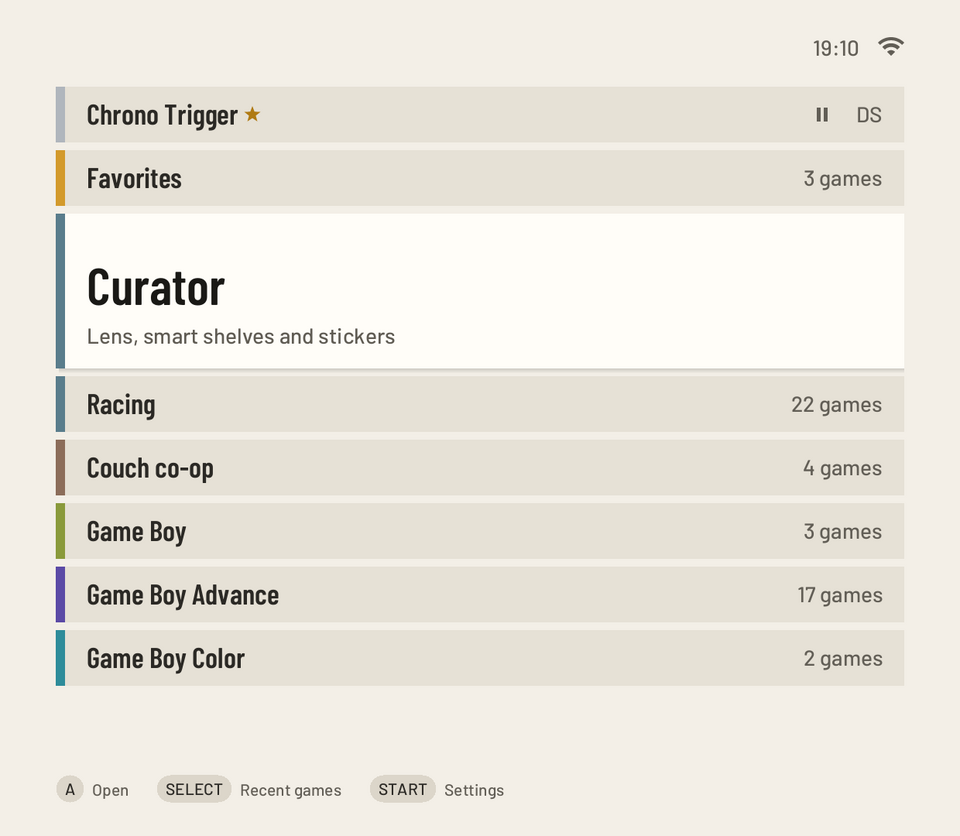
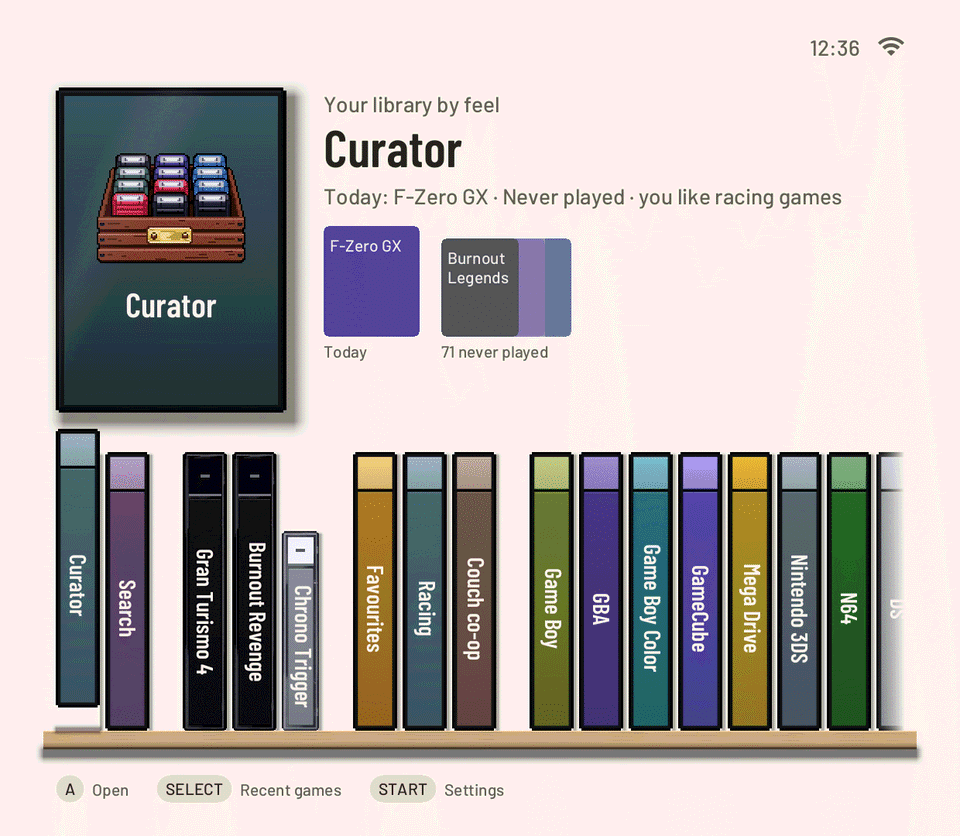
Docs for 0.1.6: device list by chip, README and manual brought up to date, new pictures

diff --git a/README.md b/README.md
@@ -13,15 +13,19 @@ PlayStation 2, gets the same small pause menu with save slots, pictures and a st
 box art, their own card and facts, and a Curator that knows what you own and what you have not touched yet.
 
 Version **0.1.6** is out as a public alpha: [download it](../../releases/tag/v0.1.6),
-watch the [trailer](https://pocketui.xyz), and read more at **[pocketui.xyz](https://pocketui.xyz)**.
+[watch the trailer](https://pocketui.xyz) and see more at **[pocketui.xyz](https://pocketui.xyz)**.
 
 <p align="center">
-  <img src="docs/media/home.png" width="49%" alt="Home: the last game, favourites, Curator and the systems">
-  <img src="docs/media/home-split.png" width="49%" alt="Home in the Split look">
+  <img src="docs/media/home.png" width="49%" alt="Home on the Shelf: the last game, favourites, Curator and the systems">
+  <img src="docs/media/home-cabinet.png" width="49%" alt="The Cabinet: games on a bookcase with an old TV, a plant and a trophy that grew with your play time">
 </p>
 <p align="center">
+  <img src="docs/media/cases.png" width="49%" alt="Games as discs, cartridge boxes and cases">
   <img src="docs/media/game-card.png" width="49%" alt="A game's card with facts, play time and notes">
-  <img src="docs/media/home-cabinet.png" width="49%" alt="The Cabinet look: Curator's shelves as a bookcase">
+</p>
+<p align="center">
+  <img src="docs/media/cozy-extras.png" width="49%" alt="Cozy extras: every little touch has its own switch">
+  <img src="docs/media/theme.png" width="49%" alt="Theme: colour sets, fonts and button symbols">
 </p>
 
 The pictures are rendered from the code with made-up data (`pocket-ui --snapshot`, see
@@ -30,13 +34,21 @@ The pictures are rendered from the code with made-up data (`pocket-ui --snapshot
 ## What it feels like
 
 - **Instant.** The shelf appears within tens of milliseconds, and a game starts from the picture of where you left it.
-- **One shelf, five looks.** Shelf, Minimal, Split, Cards and Cabinet, in dark or light, with real box art, system
-  pictures, favourites and ratings.
-- **One pause menu everywhere.** HOME opens Continue, Save and Load with 8 slots and previews, Earlier (step back a few
-  minutes), screen frames and effects (scanlines, CRT, LCD grid), shortcuts, rewind, run-ahead and cheats.
-- **Curator and Surprise me.** Browse by feel, find games like this one, or let it pick.
-- **Your own player.** pocket-core plays Game Boy to PSP, Dreamcast and DS; PlayStation 2, GameCube and Wii run on
-  their own emulators behind the same menu.
+- **Every game in its case.** Real cases, cartridge boxes and printed discs on the Shelf and the Cabinet: a PlayStation
+  jewel case, a Game Boy Advance cartridge, a GameCube mini disc with your game's cover on it. Stickers you put on
+  them (Completed, 100 %, Favourite, Game of the year), and on the Cabinet a little old TV that shows the selected game.
+- **Cozy or Quick.** Cozy opens the case, slides the cartridge in with a click and switches on an old TV; Quick just
+  starts. Playful animations, sounds of the cases, light that follows the time of day, a plant that grows with your
+  hours and a trophy for your first finished game. Each touch has its own switch (Settings → Look & feel → Cozy extras).
+- **Make it yours.** Five looks (Shelf, Minimal, Split, Cards, Cabinet), five colour sets in dark and light, three
+  fonts, and button symbols in Nintendo, Xbox or PlayStation style. An idle slideshow of your games' pictures if you want one.
+- **One pause menu everywhere.** HOME opens Continue, Save and Load with 8 slots and previews (on the memory card of the
+  game's own console, if you like), Earlier (step back a few minutes), screen frames and effects (scanlines, CRT, LCD
+  grid), shortcuts, rewind, run-ahead and cheats.
+- **Curator, Connections and Rediscover.** Browse by feel, find games like this one, follow a developer, series or
+  genre to your other games, or pick up what you played a year ago today.
+- **Your own player, and the big consoles.** pocket-core plays Game Boy to PSP, Dreamcast and DS; PlayStation 2,
+  GameCube, Wii and 3DS run on their own emulators behind the same menu. PortMaster games install from the Extras page and start from pocket-ui.
 - **Web companion** on your own tailnet: library, what is playing, favourites, ratings, uploads.
 - **Looks after itself.** Wi-Fi (even hotel sign-in pages), Bluetooth pads and headphones, sleep and power, signed
   updates with a way back. English and German.
@@ -60,17 +72,20 @@ is not touched. More: [docs/INSTALL-DUAL-BOOT.md](docs/INSTALL-DUAL-BOOT.md).
 You bring your own games and, for a few systems, BIOS files; pocket-ui includes neither. On an empty card it can
 download a [starter pack](docs/STARTER-PACK.md) of nine free homebrew games, each from its author's page.
 
-## Devices
+## Runs on
 
-| | |
-|---|---|
-| Made for | Retroid Pocket Mini V2 (Snapdragon 865 / SM8250), ROCKNIX SM8250 build 20261001 (newer builds are accepted when pocket-ui's compatibility check passes), 1240 x 1080 screen |
-| Tested on | Retroid Pocket Mini V2 (main device), AYN Odin 2 Mini, Anbernic RG35XX Plus |
-| Should run on | **Same ROCKNIX SM8250 image as the Mini V2:** Retroid Pocket 5, Flip 2, first Mini. **SM8550 image:** AYN Odin 2, Odin 2 Portal, Retroid Pocket 6, Nova. **ROCKNIX H700 image:** Anbernic RG28XX, RG35XX 2024/H/Pro/SP, RG40XX H/V, RG34XX, RG34XX-SP, RG-SP. Profiles are in place; not tried on the hardware yet |
+pocket-ui runs on three ROCKNIX images. 🎮 means the project has played on it, ✅ means the same chip, the same
+ROCKNIX image and a pocket-ui profile. Screens, sticks and sources are in [docs/DEVICES.md](docs/DEVICES.md).
 
-Alpha: it is made on the Mini V2; the "should run on" devices are best-effort. If something is off,
-**Settings → System → About → Report a problem** makes a file for a report, or [open an issue](../../issues).
-[docs/STATUS.md](docs/STATUS.md) lists every feature and how far it has been checked.
+| Chip and ROCKNIX image | Handhelds | Plays, by console release |
+|---|---|---|
+| **Snapdragon 865** (SM8250) | 🎮 **Retroid Pocket Mini V2**<br>✅ Retroid Pocket Mini, Pocket 5, Pocket Flip 2 | NES, Master System, PC Engine, Mega Drive, Game Boy, SNES, Saturn, PlayStation, Nintendo 64, Game Boy Color, Dreamcast, PlayStation 2, Game Boy Advance, GameCube, Xbox, Nintendo DS, PSP, Wii, 3DS |
+| **Snapdragon 8 Gen 2** (SM8550) | 🎮 **AYN Odin 2 Mini**<br>✅ AYN Odin 2, Odin 2 Portal, Retroid Pocket 6, Pocket Nova | NES, Master System, PC Engine, Mega Drive, Game Boy, SNES, Saturn, PlayStation, Nintendo 64, Game Boy Color, Dreamcast, PlayStation 2, Game Boy Advance, GameCube, Xbox, Nintendo DS, PSP, PS3, Wii, 3DS, PS Vita, Wii U (PS3, PS Vita and Wii U: selected games) |
+| **Allwinner H700** | 🎮 **Anbernic RG35XX Plus**<br>✅ RG35XX H, Pro, 2024 and SP, RG28XX, RG40XX H and V, RG34XX, RG34XX-SP, RG-SP | NES, Master System, PC Engine, Mega Drive, Game Boy, SNES, PlayStation, Nintendo 64, Game Boy Color, Dreamcast, Game Boy Advance, Nintendo DS, PSP (Nintendo 64, Dreamcast, PSP and DS with ROCKNIX's own emulators) |
+
+It is an alpha, made on the Mini V2. If something is off, **Settings → System → About → Report a problem** makes a
+file for a report, or [open an issue](../../issues). [docs/STATUS.md](docs/STATUS.md) lists every feature and how far
+it has been checked.
 
 ## How far it is proven
 
@@ -83,24 +98,11 @@ The details behind the alpha label, from [docs/STATUS.md](docs/STATUS.md):
 - Built and tested in the virtual device or in tests, still waiting for more real-device time: touch, Bluetooth pads,
   Wii and 3DS, the newest picture effects and frames, the night light, RetroAchievements, Syncthing between two
   devices, the Store and the starter pack. Battery drain of a long sleep is not measured yet.
-- The Retroid Pocket 5, Flip 2 and first Mini run the same ROCKNIX SM8250 build, so pocket-ui recognises them and lays
-  out for their screens; Pocket 6, Nova and the AYN Odin 2 family use the SM8550 image (screen off instead of
-  suspend, ROCKNIX-controlled cooling, see [docs/DEVICES.md](docs/DEVICES.md)). Nobody on the project has most of
-  these yet; the Odin 2 Mini has been tried once. The Anbernic H700 models are only tested on a computer, not on a handheld. Other devices are not supported.
-
-## Supported devices
-
-| | |
-|---|---|
-| Device | Retroid Pocket Mini V2 (Snapdragon 865 / SM8250) |
-| System | ROCKNIX, SM8250 build, version 20261001 (the version pocket-ui is tested with) |
-| Screen | 1240 x 1080 landscape (the panel is portrait and rotated by the compositor) |
-
-**Experimental, untested on real hardware:** the Retroid Pocket 5 and Retroid Pocket Flip 2 (1920 x 1080; the Flip 2's
-lid puts it to sleep) and the first Retroid Pocket Mini (1280 x 960), on the same ROCKNIX SM8250 build. pocket-ui says
-so once at the first start and in Settings › System › About. Install ROCKNIX for the device as ROCKNIX describes, then
-pocket-ui's install package; the SD card image is for the Mini V2 only. If something doesn't work, Settings › System ›
-About › Report a problem makes a file for a report. Details: [docs/DEVICES.md](docs/DEVICES.md).
+- The Retroid Pocket 5, Flip 2 and first Mini run the same ROCKNIX SM8250 build as the Mini V2, so pocket-ui
+  recognises them and lays out for their screens; Pocket 6, Nova and the AYN Odin 2 family use the SM8550 image
+  (screen off instead of suspend, ROCKNIX-controlled cooling, see [docs/DEVICES.md](docs/DEVICES.md)). The Odin 2 Mini
+  and the Anbernic RG35XX Plus have been played on; the other devices are covered by computer tests and the virtual
+  device. Devices that are not listed are not supported.
 
 ## What it does
 
@@ -238,23 +240,3 @@ libretro cores, the system pictures (public-domain photos by Evan Amos, converte
 - Barlow, by Jeremy Tribby, for the interface font, and Titillium Web for the test store's font package.
 - [Evan Amos](https://commons.wikimedia.org/wiki/User:Evan-Amos), whose public-domain console photographs on Wikimedia
   Commons are the base of the system pictures ([assets/systems/SOURCES.md](assets/systems/SOURCES.md)).
-
-
-### Experimental SM8550 handhelds
-
-The **Retroid Pocket 6** (including TOP-DPAD), **Retroid Pocket Nova**, **AYN Odin 2 Mini**,
-**AYN Odin 2** and **AYN Odin 2 Portal** are experimental. Only the Odin 2 Mini has been tried on a real device
-(2026-10-27: the install package, the first-start screens, the shelf, a GBA game with the pause menu, screen off and
-wake, driven over the command pipe; no button or touch pressed, no Bluetooth, no sleep); the other four are computer
-tests only, with no hardware verification. Use ROCKNIX's own **SM8550 aarch64 image**
-(20261001), set up following ROCKNIX's guide for your device, boot it once, then add pocket-ui
-with the install package. The Mini V2 SD image must not be used on these devices.
-
-Pocket 6 and the Odin 2 family use 1920×1080; Nova uses 1280×960. First start says once that the device is untested;
-About marks it experimental. **Stock ROCKNIX still disables sleep on these devices (checked 2026-10-27):** the power button
-turns the screen off, and idle turns it off with the game paused. Any button brings it back.
-Settings → System → Sleep & power offers **Switch off after** (Off by default) to save and power
-off after a longer dark spell on battery. Screen off still uses battery. ROCKNIX controls the fan;
-pocket-ui's fan choices have no effect here. Touch, LEDs, vibration, battery drain, 120 Hz pacing
-and Zink on the real GPU still need a tester. Mini and Portal menus start with Xbox buttons
-(A bottom); the original Odin 2 uses Nintendo buttons (A right). Saved layout choices win. See [device notes](docs/DEVICES.md).

diff --git a/docs/STATUS.md b/docs/STATUS.md
@@ -2,7 +2,7 @@
 
 One row per user-facing feature: how far it has been proven, on what, and what is still open. This is the one place
 that answers "does it work on the Mini V2?". Every "Status" note in the other documents (and the manual's notes for
-players) has to agree with it. State as of 2026-10-28, main `d908a14`; rows older than that keep the date of the run they describe.
+players) has to agree with it. State as of 2026-10-30, release 0.1.6; rows older than that keep the date of the run they describe.
 
 **The rule: whoever changes how well a feature has been verified updates its row in the same commit.** That means a
 new feature (add its row), a device run (move the row up and write what was done), a regression (move it down), and a
@@ -98,7 +98,7 @@ can be unticked while a later run (named here) covered the same ground.
 | Experimental devices (Retroid Pocket 5, Flip 2, Mini V1): recognised from the device tree, the first start's line, About's Device row, the report's device line, the install package accepts them | virtual device only | [DEVICES.md](DEVICES.md#a-first-day-in-the-virtual-device-2026-10-26), 2026-10-26: `device::tests` with each device's device tree strings, snapshots of `setup:first:device=rp5`/`mini` and `about:device=flip2` in English and German, `deploy/package/test-package.sh` with the five model strings; a first day in the virtual device as each (`vdev.sh up --device`). | Everything on such a device: nobody on the project has one. |
 | Experimental AYN Odin 2 Mini: install package, first-start screens, shelf, a GBA game with the pause menu, screen off and wake | device smoke-checked | 2026-10-27 (night): the install package from `a126f44` on a real Odin 2 Mini (checks, install, `VERIFY: ok`), driven over the command pipe, nobody pressed a button or touched the screen ([DEVICES.md](DEVICES.md#odin-2-mini-on-a-real-device-2026-10-27-night)). The status words describe the Mini V2; this is the only other device with a run. | Buttons, sticks, triggers, touch, volume keys, power button, Bluetooth, sleep, Mini LED backlight, fan, Zink, sound, battery drain, German, the big emulators. |
 | Experimental AYN Odin 2 and Odin 2 Portal; Odin 2 family profiles, layouts and cooling | host tests only | 2026-10-27: exact DT/profile/touch-corner tests; full gate exit 0 (2,574 Rust tests), aarch64 builds, 7,404 1080p renders, virtual Mini pad/touch, GBC save/resume and screen off/wake. Stock next still disables suspend (PR #3126 unmerged); safe SM8550 cooling. [Device notes and hardware plan](DEVICES.md#ayn-odin-2-family-2026-10-27-experimental). | All physical hardware of the Odin 2 and the Portal; for the Mini the rows above. |
-| Experimental Anbernic H700 handhelds (RG28XX, RG35XX 2024/Plus/H/Pro/SP, RG40XX H/V, RG34XX, RG34XX-SP, RG-SP; the CubeXX not yet) | host tests only | 2026-10-29: one profile plus a per-model table, installable (SSH package, Ports installer, card hook accept exactly the table's models; unknown H700 refused), N64/PSP/Dreamcast/DS stay on ROCKNIX's emulators, user guide. 2026-10-27: DT/profile tests, no fan/sticks/touch handling, RG28XX "no Wi-Fi" page, time zone without the Steam helper; 2026-10-28: scaled logical layouts at 640×480 / 720×480 / 720×720, full dark/light snapshot matrix, JPEG inspection, CPU benchmark and H700 vdev profile contract ([measurements](H700-SCALED-LAYOUT.md)). [Device notes](DEVICES.md#anbernic-h700-handhelds-2026-10-27-installable-2026-10-29-experimental). | Everything on hardware: DDR type, DTB, pad, lid and sleep on the SP, Wi-Fi on the RG28XX, rotation, speed, 1 GB memory. |
+| Anbernic H700 handhelds (RG35XX Plus played on; RG28XX, RG35XX 2024/Plus/H/Pro/SP, RG40XX H/V, RG34XX, RG34XX-SP, RG-SP; the CubeXX not yet) | host tests only | 2026-10-29: one profile plus a per-model table, installable (SSH package, Ports installer, card hook accept exactly the table's models; unknown H700 refused), N64/PSP/Dreamcast/DS stay on ROCKNIX's emulators, user guide. 2026-10-27: DT/profile tests, no fan/sticks/touch handling, RG28XX "no Wi-Fi" page, time zone without the Steam helper; 2026-10-28: scaled logical layouts at 640×480 / 720×480 / 720×720, full dark/light snapshot matrix, JPEG inspection, CPU benchmark and H700 vdev profile contract ([measurements](H700-SCALED-LAYOUT.md)). On a real RG35XX Plus (2026-10-30): the shelf's first X and the playful animations' frame cost measured ([LATENCY.md](LATENCY.md#first-box-in-the-shelf-and-cabinet-looks-2026-10-30)); the row's status describes the other models and is not raised by it. [Device notes](DEVICES.md#anbernic-h700-handhelds-2026-10-27-installable-2026-10-29-experimental). | The other models on hardware: DDR type, DTB, pad, lid and sleep on the SP, Wi-Fi on the RG28XX, rotation, speed, 1 GB memory. |
 | Layouts at 1920x1080 (the column) and 1280x960 | virtual device only | [DEVICES.md](DEVICES.md#layouts), 2026-10-26: every snapshot state at both sizes, dark and light, three text sizes, English and German (`scripts/size-sweep.sh`): no text runs into text or the hints at 1920x1080; at 1280x960 only the letter jump's letter (on purpose). The Mini V2's 1240x1080 pictures compared with the code before: unchanged. Home in every look, Settings, a game and the pause menu seen in the virtual device at both sizes. | Seen in the hand on a Pocket 5 or Mini V1. |
 | Flip 2 lid: closing sleeps (or screen off), opening wakes, logind's lid handling inhibited | virtual device only | [SLEEP.md](SLEEP.md#lid-the-flip-2), 2026-10-26: sleep tests with a fake event stream, the evdev `SW_LID` mapping, the inhibitor's `--what` per device; in the virtual Flip 2 a uinput `SW_LID` closed in a game saved it and suspended (stand-ins for the power key's inhibitor and the suspend, no logind there). | A Flip 2: the hall sensor's events, the inhibitor taking `handle-lid-switch`, wake by opening. |
 | Experimental devices: Smooth fan from 51, LEDs, battery estimate, touch rotation 270 | host tests only | [DEVICES.md](DEVICES.md#safety-on-untested-hardware), 2026-10-26: the cooling device tree compared in ROCKNIX's source (identical), `device::tests` (fan start), `touch::tests` (rotation 270 and 90), the estimate uses the capacity percentage only. | Fan noise and temperatures, LED order, battery drain, touch accuracy on each device. |
@@ -183,6 +183,9 @@ can be unticked while a later run (named here) covered the same ground.
 | Surprise me | host tests only | Same branch: seeded unit tests of the weights (finished, dropped, played today rarer; each work once; Right never repeats until all were shown) and the reasons; snapshots of its card and of "Getting ready…" ([CURATOR.md](CURATOR.md#surprise-me)). | On the device: whether the picks feel fair over a few days of real play, and the reason lines with a real taste profile. |
 | Curator on Home: the Curator row on top (above Search, Home still opens on Continue), the day's pick and the games waiting on its label and Split's panel, covers of Favorites and pinned shelves and stickers, Surprise me's first pick and the Cabinet's Surprise me box front | device smoke-checked | `feat/curator-forward`, 2026-10-26: unit tests of the day's pick and the waiting games (`curator::today`, and its cost in the 5,000-game speed test), of what each panel shows with and without data and where its covers go (`home_panel`), and of the new order of Home (`shelf`); snapshots of Home on the Curator, Favorites, pinned shelf and sticker rows in Shelf, Split and Cabinet, dark and light, Normal and Large, English and German, looked at on the build computer ([CURATOR.md](CURATOR.md#curator-on-home-featcurator-forward-2026-10-26)). On the Mini V2, 2026-10-26, main `87ffc1e`, driven over `/tmp/pocket-ui.in`, 332 games: Curator is the first entry of Home in Cards ("Heute: Castlevania - Harmony of Dissonance · Nie gespielt"); in Split (switched for the check and back) its panel shows the pick's cover and a fan of "4 zum Wiederentdecken", and Favorites the starred game's cover. Moving over Home: `nav` in the speed guard run of that day ([LATENCY.md](LATENCY.md#mini-v2)). | On the device: pinned shelves and stickers (none on the test card), the Shelf and Cabinet looks, real covers of mixed shapes, the pick changing the next day. Cards and Minimal have no covers on these entries by design (CURATOR.md). |
 | Connections (a card's developer, publisher, series and genre lead to the player's other games) and Curator's Rediscover | host tests only | `feat/connections`, 2026-10-30: unit tests of the loose matching, series from titles, the lists' order and Rediscover's dates (`connections`), of picking on the info page and the box's back (`game_card`); journeys with the real binary in every look at 1280x720 and 640x480, English Normal and German Large, nothing cut or overlapping (`tests/connections.rs`); snapshots looked at on the build computer ([CURATOR.md](CURATOR.md#connections-and-rediscover-featconnections-2026-10-30)). | On the device: a real library's series and developers (how often the title rule finds a series, wrong merges), the Cabinet's list shelf, Rediscover with a ROCKNIX gamelist's "last played". |
+| Cases, cartridge boxes and printed discs on the Shelf and Cabinet (0.1.4, 0.1.5), stickers on the cases, the Cabinet's TV | host tests only | Unit tests of the case kinds, disc kinds and sticker placement, snapshots in every look, dark and light, English and German ([DESIGN.md](DESIGN.md)). On a real RG35XX Plus the first box open was measured and brought from 166 to 85 ms ([LATENCY.md](LATENCY.md#first-box-in-the-shelf-and-cabinet-looks-2026-10-30)). | On the Mini V2: how the cases look and scroll with a real library; the TV's cost. |
+| Cozy extras (0.1.6): sounds of the cases, old-TV power-on, playful animations, memory card in the pause menu, idle slideshow, light by time of day, decorations | host tests only | Unit tests and journeys with the real binary (the slideshow's first press only closes it, also with analog triggers; decorations scan once a minute), snapshots of every switch's state. Frame costs of the playful animations measured on an RG35XX Plus ([LATENCY.md](LATENCY.md)). | On the Mini V2: the animations and the slideshow at arm's length; the memory card's slot row on every console. |
+| Theme (0.1.6): colour sets, fonts and button symbols | host tests only | Unit tests, snapshots in dark and light and at three text sizes, English and German. | On the Mini V2: contrast of every colour set in daylight. |
 | Play history and the Year in review | device smoke-checked | [HISTORY.md](HISTORY.md), `55b7a66`, 2026-10-24: sessions are recorded on the device. For hours on 2026-10-24 a stray measuring process kept sessions out of the log (found and removed at 19:33). | Sessions across sleep and midnight are unit-tested only. |
 | Starter pack | virtual device only | [STARTER-PACK.md](STARTER-PACK.md): nine games downloaded in the virtual device; offline and broken-HTTPS messages seen. | The download on the Mini V2. |
 | Store (page and four package kinds) | virtual device only | [STORE.md](STORE.md): works against a local test catalog. One fact was confirmed on the device: ROCKNIX empties its tools folder at every boot (so Store tools go to pocket-ui's own folder). | There is no public catalog. |

diff --git a/docs/DEVELOPING.md b/docs/DEVELOPING.md
@@ -579,9 +579,8 @@ After measurements (lower shared load, around 8; these are not controlled idle-m
 
 At the measured 601 states and 39 risk states, layout coverage uses 718 renders instead of 2,404. The 1,686 omitted
 renders repeat the three non-anchor combinations for states outside the risk list. No snapshot state is removed.
-Cargo's test phase took 73s versus nextest's 106s including doctests, so Cargo stays the default. The shell phases
-were 105s and 91s respectively, illustrating the host-load variation. Nextest is an optional diagnostic/runner choice,
-not an automatic speedup. The large library harness dominates compilation; merging small integration executables
+Cargo's test phase took 73s versus nextest's 106s including doctests on the lightly loaded build machine (2026-10-29). On the shared build server under load, with a retry and 12 threads, nextest was the faster one, see "The full gate runs the tests with `cargo nextest`" below; the gate now defaults to it. The shell phases
+were 105s and 91s respectively, illustrating the host-load variation. The large library harness dominates compilation; merging small integration executables
 was therefore not justified by these measurements.
 
 The runtime reductions preserve behaviours:
@@ -628,12 +627,20 @@ case also exercises the ordinary five-second SIGTERM fallback and verifies both 
 `/tmp/suite-ui-review/`; they have no layout collisions. Device follow-up: toggle the real radio off/on and compare
 the page, verify one real shutdown cancels the RTC wake alarm, and launch/quit with real video/audio and a card.
 
-The full gate can use `GATE_RUNNER=nextest scripts/gate.sh` when `cargo-nextest` is installed
-(`cargo install cargo-nextest --locked`). It still runs doctests through Cargo and all five shell suites.
-`.config/nextest.toml` limits execution to four test processes and retries only the named, known load-sensitive
-render benchmarks and Azahar header-read test once. Ordinary correctness tests have no retry. Cargo remains the
-default runner; use measured runtime, not availability, to choose nextest. Its JUnit report is under
-`target/nextest/default/junit.xml`.
+The full gate runs the tests with `cargo nextest` whenever it is installed and `.config/nextest.toml` exists (2026-10-30; on
+the build server it lives in its tool folder; `GATE_RUNNER=cargo` opts out, `GATE_RUNNER=nextest` insists). It runs every test in
+its own process and all test binaries side by side (`GATE_TEST_THREADS`, default the cores, at most 8; remote-gate.sh gives
+the build server 12), then the doctests through Cargo. Measured on the shared build server for the same one-comment change, three runs each, shared
+load 10-30: tests 163 / 164 / 169 s with `cargo test`, 115 / 114 / 112 s with nextest (the gate 188-192 s against 139-140 s).
+**One automatic retry** for every test (`retries = 1`): a test that fails once and passes on the retry is listed in the
+gate log as `gate:   flaky: <test>` and the gate stays green; a test that fails twice makes it red. The result lines are
+unchanged (`GATE: ok (N passed)`; N is now every test, about 2,900, not only the first Cargo binary's count). Tests that
+assert a time budget (thread CPU time per frame, the Curator's and the search's 5,000 games) are in an override that runs
+them alone (`threads-required = "num-test-threads"`), so a busy gate cannot fail them and their thresholds stay as they
+are; a new budget test belongs in that filter. Compile speed was measured too: a small change rebuilds in about 20 s, so
+the test run, not the compile, is the gate's time; `mold` as the linker and `opt-level = 1` for the gate profile gained
+nothing measurable (and `opt-level = 1` made the frame benchmarks fail), so `[profile.gate]` is unchanged. The JUnit
+report is under `target/nextest/default/junit.xml`.
 
 To measure without nightly Rust, build with `nice -n 10 env CARGO_BUILD_JOBS=4 cargo test --profile gate --no-run
 --message-format=json > /tmp/test-build.json`, timing that command separately, then run
@@ -642,6 +649,12 @@ The report separates binary durations from individual test durations and prints 
 include process startup and are diagnostic measurements, not performance assertions. Keep the machine load with the
 report. Do not compare a clean build with an incremental build as evidence of a profile improvement.
 
+
+**The merge train and artifacts (maintainers).** Branches are merged through a queue (`tools/merge-queue.sh <worktree>:<branch>`
+in the maintainer's checkout, not part of this repository): it runs one combined gate for up to four branches, halves a red
+batch down to the branch that broke it, and fast-forwards `main` only on green. The gate uses `cargo nextest` (see
+below). After each merge the queue builds one ARM release package per `main` commit; `scripts/dev.sh deploy --artifact
+<sha|latest-main>` puts such a package on a device without compiling.
 
 `scripts/gate.sh [worktree]` is what has to be green before a branch is merged: the whole `cargo test` at release level
 (all unit tests, integration tests that run the binaries, and the doc-drift checks) and `deploy/test-run-pocket-ui.sh`
@@ -819,6 +832,7 @@ These are meant for development and tests; normal use needs none of them. On a d
 | `POCKETUI_SNAPSHOT_NATIVE=1` | Snapshots only: bypass the logical canvas for raw small-panel layout comparisons |
 | `POCKETUI_FRAME_BENCH=1` | Snapshots (`home`, `settings`, `main`): report settled paint and paint-plus-reduction thread CPU medians and p95, excluding startup, PNG and presentation ([H700-SCALED-LAYOUT.md](H700-SCALED-LAYOUT.md)) |
 | `POCKETUI_SNAPSHOT_WIFI=1\|0` | `--snapshot`: the status corner as if Wi-Fi were connected (`1`) or not (`0`) (the `--snapshot` table above) |
+| `POCKETUI_SNAPSHOT_GAME=<system>\|<name>\|<file>` | `--snapshot`: the game behind the pause menu and the slot pages (default `gbc\|uCity\|uCity.gbc`); `scripts/readme-shots.sh` sets it |
 | `POCKETUI_SNAPSHOT_FLIP_MS=<ms>` | `--snapshot box:…`: the box's last turn that long after it began, instead of done (`game_box::BoxView::snapshot_settle`) |
 | `POCKETUI_SNAPSHOT_OPEN_MS=<ms>` | `--snapshot box:…`: the game that long into sliding out of its case, instead of out (`game_box::BoxView::snapshot_settle`) |
 | `POCKETUI_SNAPSHOT_SPIN_MS=<ms>` | `--snapshot box:…`: the disc beside its case that long into its slow turn (Playful animations, `game_box::BoxView::snapshot_settle`) |
@@ -985,7 +999,7 @@ Cabinet's CRT TV with its own picture thread, `assets/media/tv`), the look step'
 | `src/trace.rs`, `startup.rs`, `scripts/latency.{sh,py}` | The speed guard: latency trace and benchmark ([LATENCY.md](LATENCY.md)); where the start time goes |
 | `src/crash.rs`, `frame.rs`, `fsutil.rs`, `save_writer.rs`, `save_trouble.rs`, `logs.rs`, `net_log.rs` (`net.log`: the network daemons' journal and the saved networks' names, secrets blanked), `shutdown_log.rs`, `report.rs` | Panic log, error values instead of panics, atomic file writes, crash-safe saves (the battery save and the cartridge clock, `.rtc`, written off the game thread, each write's outcome kept), saves that don't reach the card (the kinds, their words, the note pocket-core leaves for pocket-ui), the logs on the card (`shutdown_log.rs`: pocket-ui's own `shutdown.log` for every power off and restart, fsynced per entry), Settings → System → About → Report a problem (the zip of versions, logs, settings and emulators for a bug report, every file cleaned of private details first: `Redactor`, its tests on `testdata/report/private-log.txt`; `app_report.rs` is the App's side) |
 | `src/rescue.rs`, `system_cfg.rs` | The rescue path: the launcher's exit codes, safe mode's rescue page, the dialog before EmulationStation ([ARCHITECTURE.md](ARCHITECTURE.md#rescue-path)); ROCKNIX's `system.cfg`, every write under its lock ([ARCHITECTURE.md](ARCHITECTURE.md#rocknixs-systemcfg)) |
-| `src/doc_checks.rs`, `src/testutil.rs`, `src/fixtures/`, `src/testdata/` | Tests only: the documentation checks; helpers shared by the unit tests (`write_executable`, the scratch folder `TestDir`); recorded tool output (bluetoothctl, Dolphin profiles, Syncthing, Tailscale) and data (the Curator golden set, ROM file names in the shapes found on real cards) the unit tests read |
+| `src/doc_checks.rs`, `src/testutil.rs`, `src/fixtures/`, `src/testdata/` | Tests only: the documentation checks; helpers shared by the unit tests (`write_executable`, the scratch folder `TestDir`); recorded tool output (bluetoothctl, Dolphin profiles, Syncthing, Tailscale) and data (the Curator golden set, real ROM names) the unit tests read |
 | `deploy/` | Files that go onto the device: the launcher `run-pocket-ui.sh`, the `essway` drop-in, the boot screen's unit (`pocket-splash.service`), SD boot config (`sd-efi/grub.cfg`) and the quiet start for a card set up before (`grub-quiet.sh`, its test `test-grub-quiet.sh`), the SD image's initramfs hooks and notes (`image/`), the install package's scripts and README (`package/`), RetroArch defaults, benchmark and PINE tools |
 | `scripts/` | Dev loop (`dev.sh`, `vdev.sh`, `devlock.sh`), tests (`test-linux.sh`), release (`release-app.sh`, `release-rustflags.sh`, `check-binary-paths.sh`), the SD card image (`make-image.sh`, `check-image.sh`, `image/`), the install package for an existing ROCKNIX card (`make-install-zip.sh`) and the two files for an official one (`make-fat-install.sh`), the Xbox core's files (`hakux-files.sh`, both packages), boot files (`make-sd-efi.sh`, `make-test-bootimg.py`), the quiet start on an existing card (`boot-quiet.sh`), `autostart.sh`, `flash-sd.sh`, `android/` helper scripts for the Android side of the install, translations (`i18n-extract.py`, `i18n-shots.sh`), other screen sizes (`size-sweep.sh`), `wayland-stub.py` (snapshots on Linux without a compositor) |
 | `docker/` | The virtual device: image build, boot scripts, virtual pad and touch screen |

diff --git a/docs/DEVICES.md b/docs/DEVICES.md
@@ -1,14 +1,63 @@
-# Devices: Mini V2 and experimental handhelds
+# Devices: which handhelds pocket-ui runs on
 
-> **Status (2026-10-26; ledger: [STATUS.md](STATUS.md)):** pocket-ui is made and tested on the **Retroid Pocket
-> Mini V2**. The **Retroid Pocket 5**, **Retroid Pocket Flip 2** (the Snapdragon 865 one) and the first **Retroid
-> Pocket Mini** ("Mini V1") run the same ROCKNIX SM8250 image and are offered as **experimental**: built and tested
-> on a computer only (unit tests, snapshots at their screen sizes, a first day in the virtual device for each). Nobody
-> on the project has one; nothing here has run on their hardware. Reports are welcome: Settings › System › About ›
-> Report a problem.
+## Which handhelds pocket-ui runs on
 
-Research behind this: `RESEARCH-NOVA-RP6-2026-10-26.md` (outside the repository) and
-[NOVA-FEASIBILITY.md](NOVA-FEASIBILITY.md). The SM8550 devices (Pocket 6, Nova and the AYN Odin 2 family) are experimental too; their different platform restrictions are below.
+pocket-ui runs on ROCKNIX, on the three ROCKNIX images it ships for: **SM8250**, **SM8550** and **H700**. Each device
+below has a ROCKNIX device tree on that image (its path is given under the table) and a pocket-ui profile that knows its
+screen, sticks, fan, Wi-Fi and lid. The installers accept exactly these devices. 🎮 means the project has played on it;
+✅ means the same chip, the same ROCKNIX image and a pocket-ui profile. Reports are welcome (Settings › System ›
+About › Report a problem). How far each feature is proven: [STATUS.md](STATUS.md).
+
+The "Plays" line of each chip comes from what pocket-ui starts there (`hostsys`, `standalone.rs`, `hakux.rs`) and from the
+runs in [STATUS.md](STATUS.md) and [BIG-EMULATORS.md](BIG-EMULATORS.md), in order of the consoles' years.
+
+### Snapdragon 865: ROCKNIX SM8250 image
+
+**Plays, by console release:** NES, Master System, PC Engine, Mega Drive, Game Boy, SNES, Saturn, PlayStation, Nintendo 64, Game Boy Color, Dreamcast, PlayStation 2, Game Boy Advance, GameCube, Xbox, Nintendo DS, PSP, Wii, 3DS. Has a fan.
+
+| | Device | Screen | Sticks | Notes |
+|---|---|---|---|---|
+| 🎮 | **Retroid Pocket Mini V2** | 1240 × 1080 | 2 | The main device; everything is measured here |
+| ✅ | Retroid Pocket Mini | 1280 × 960 | 2 | Layouts adjusted for the 4:3 panel |
+| ✅ | Retroid Pocket 5 | 1920 × 1080 | 2 | Pages sit in a centred column on the wide screen |
+| ✅ | Retroid Pocket Flip 2 | 1920 × 1080 | 2 | Closing the lid is the power button's short press |
+
+ROCKNIX: `projects/ROCKNIX/devices/SM8250/linux/dts/qcom/sm8250-retroidpocket-{rpminiv2,rpmini,rp5,rp5-visionox,flip2,flip2-visionox}.dts`.
+
+### Snapdragon 8 Gen 2: ROCKNIX SM8550 image
+
+**Plays, by console release:** NES, Master System, PC Engine, Mega Drive, Game Boy, SNES, Saturn, PlayStation, Nintendo 64, Game Boy Color, Dreamcast, PlayStation 2, Game Boy Advance, GameCube, Xbox, Nintendo DS, PSP, PS3, Wii, 3DS, PS Vita, Wii U. PS3, PS Vita and Wii U are selected games and guests of the pause menu (Continue and Quit; no save slots, the games save themselves). ROCKNIX runs the fan on these devices, and pocket-ui follows it.
+
+| | Device | Screen | Sticks | Notes |
+|---|---|---|---|---|
+| 🎮 | **AYN Odin 2 Mini** | 1920 × 1080 | 2 | Xbox measured here |
+| ✅ | AYN Odin 2 | 1920 × 1080 | 2 | Menus start with Nintendo buttons (A right) |
+| ✅ | AYN Odin 2 Portal | 1920 × 1080 | 2 | Menus start with Xbox buttons (A bottom) |
+| ✅ | Retroid Pocket 6 (also the TOP-DPAD version) | 1920 × 1080 | 2 | |
+| ✅ | Retroid Pocket Nova | 1280 × 960 | 2 | 4:3 panel |
+
+ROCKNIX: `projects/ROCKNIX/devices/SM8550/linux/dts/qcom/qcs8550-{ayn-odin2mini,ayn-odin2,ayn-odin2portal,retroidpocket-rp6,retroidpocket-rp6-top-dpad,retroidpocket-rpnova}.dts`.
+
+### Allwinner H700: ROCKNIX H700 image
+
+**Plays, by console release:** NES, Master System, PC Engine, Mega Drive, Game Boy, SNES, PlayStation, Nintendo 64, Game Boy Color, Dreamcast, Game Boy Advance, Nintendo DS, PSP. Nintendo 64, Dreamcast, PSP and Nintendo DS start with ROCKNIX's own emulators here. The RG35XX Plus plays Game Boy to PlayStation games smoothly. Four small cores, 1 GB of memory, no fan, Nintendo button labels.
+
+| | Device | Screen | Sticks | Wi-Fi |
+|---|---|---|---|---|
+| 🎮 | **Anbernic RG35XX Plus** | 640 × 480 | no | yes |
+| ✅ | Anbernic RG35XX H | 640 × 480 | 2 | yes |
+| ✅ | Anbernic RG35XX Pro | 640 × 480 | 2 | yes |
+| ✅ | Anbernic RG35XX 2024 | 640 × 480 | no | no |
+| ✅ | Anbernic RG35XX SP (clamshell) | 640 × 480 | no | yes |
+| ✅ | Anbernic RG28XX | 640 × 480 (portrait panel, turned) | no | no |
+| ✅ | Anbernic RG40XX H and V | 640 × 480 | 2 | yes |
+| ✅ | Anbernic RG34XX | 720 × 480 | no | yes |
+| ✅ | Anbernic RG34XX-SP (clamshell) | 720 × 480 | 2 | yes |
+| ✅ | Anbernic RG-SP (clamshell) | 720 × 480 | no | yes |
+
+ROCKNIX: `projects/ROCKNIX/devices/H700/linux/dts/allwinner/sun50i-h700-anbernic-*.dts`. The RG CubeXX is on the same image;
+its square 720 × 720 screen is too heavy for pocket-ui for now, so the installers say no. Devices on these images that are
+not listed here have no pocket-ui profile, and the installers refuse them.
 
 ## The four devices
 

diff --git a/docs/user/settings.md b/docs/user/settings.md
@@ -186,7 +186,7 @@ another switch keeps it from showing, which one. Reset settings (System → Back
 | **Stickers on cases** | Your stickers on the cases. Off hides them on the shelf and the box; they stay on the game and on its card's Stickers row. Shelf and Cabinet looks only | On |
 | **Memory card in the pause menu** | Save and Load in the pause menu show the game's whole memory card or cartridge with its blocks instead of the slim row of blocks. The info page and the box's back always show it | Off |
 | **Printed discs** | Discs printed with their cover's art and title. Off: a plain disc in its console's colour. Shelf and Cabinet looks only | On |
-| **Game connections** | The developer, publisher, series and genre on the info page and the box's back lead to your other games with the same one ([Curator](curator.md)). Off: they are only shown | On |
+| **Game connections** | The developer, publisher, series and genre on the info page and the box's back lead to your other games with the same one ([Connections](library.md#connections)). Off: they are only shown | On |
 | **Rediscover** | Games you haven't played for a long time, as a row in Curator's list | On |
 | **Light by time of day** | The room's light follows your Pocket's clock: cool and bright in the morning, warm in the evening with the lamp glowing, dim at night. Very gentle: covers and text keep their colours. Shelf and Cabinet looks only | On |
 | **Decorations** | Things on your shelves that grow with your play: the plant grows with your hours, a trophy after your first completed game, a framed "100 %" after your first 100 % sticker, a small figurine for each system you played for 10 hours. Only where a shelf has room. This works with Light by time of day on or off. Off: the shelves as they were. Shelf and Cabinet looks only | On |

diff --git a/docs/media/README.md b/docs/media/README.md
@@ -10,10 +10,14 @@ these files. Run it again after a change to the screens.
 | ![Home](home.png) | Home in the Shelf look, dark: the last game, favourites, Curator, smart shelves and systems |
 | ![Home, light](home-light.png) | The same in the light appearance |
 | ![Home, Split](home-split.png) | Home in the Split look |
-| ![Cabinet](home-cabinet.png) | The Cabinet look: Curator's shelves as a bookcase |
+| ![Cabinet](home-cabinet.png) | The Cabinet look: the selected game's case on the top board, the old TV, and a plant and a trophy that grew with the play time |
+| ![Cases](cases.png) | A list of games as cases on the Shelf: discs, cartridge boxes and cases, each in its console's look |
 | ![Game card](game-card.png) | A game's card: facts from Wikidata, your status, rating and notes, Echoes, versions, stickers |
+| ![Game box](game-box.png) | The game as a box with its cartridge beside it |
+| ![Stickers](stickers.png) | The Stickers sheet on a game's card |
 | ![Lens](lens.png) | Curator's Lens: filters with live counts |
-| ![Echoes](echoes.png) | Echoes: more like this game, from your own library |
 | ![Pause menu](pause-menu.png) | The pause menu on HOME (over a pocket-core game; a snapshot has no game picture behind it) |
 | ![Save slots](save-slots.png) | Save with the slot strip |
 | ![Settings](settings.png) | Settings, in five categories |
+| ![Cozy extras](cozy-extras.png) | Settings, Look & feel, Cozy extras: each little touch on or off |
+| ![Theme](theme.png) | The Theme page: colours, font and button symbols with a live preview |

diff --git a/docs/user/curator.md b/docs/user/curator.md
@@ -7,7 +7,7 @@ where the facts come from are on [the first page](library.md).
 
 Curator helps you find your way around a larger collection, with facts that come with pocket-ui and work without a
 network. It has seven parts; each can be switched off in Settings → Playing → [Curator](settings.md#curator), and none takes
-up space until it has something to show. [Rediscover](#rediscover) has no switch: it is only there when it has a game.
+up space until it has something to show. [Rediscover](#rediscover) has its own switch under Settings → Look & feel → [Cozy extras](settings.md#cozy-extras) and is only there when it has a game.
 
 When pocket-ui starts, Curator reads your library in the background, after the shelf is up and never while a game
 runs. Until it is done (with a large library, a second or two), its rows say **Getting ready…**; nothing waits for it.
@@ -173,7 +173,7 @@ away from: first the ones you played **a year ago today**, then the ones you hav
 played longest first. Each says why it is there ("played a year ago today", "last played 412 days ago"). It counts
 pocket-ui's play history, the recent games and, when you came from EmulationStation, the "last played" in your
 gamelists, so a card that moved over from ROCKNIX's menu has a past from the first day. The row is only there while
-it has a game in it.
+it has a game in it, and Settings → Look & feel → Cozy extras → **Rediscover** switches it off.
 
 ### Play history
 

diff --git a/CONTRIBUTING.md b/CONTRIBUTING.md
@@ -15,6 +15,8 @@ version, how you installed it).
 - For anything larger than a fix, open an issue first, so we can agree on the approach before you spend the time.
 - Build and test as [docs/DEVELOPING.md](docs/DEVELOPING.md) describes. At least `cargo test --release` must pass;
   the documentation checks in it also cover the manual (`docs/user/`) and the links.
+- Maintainers merge only after the full gate (`scripts/gate.sh`: tests at release level, the launcher and package checks,
+  the documentation and leak checks) is green; a pull request gets the same run.
 - If your change makes a feature work better or worse on the device, update its row in
   [docs/STATUS.md](docs/STATUS.md) in the same pull request, and say what you ran it on.
 - A change people see goes into the manual (`docs/user/`) in the same pull request. New interface text needs its

diff --git a/docs/user/library.md b/docs/user/library.md
@@ -117,7 +117,8 @@ card then shows **Series** Burnout. It takes two different games, never one game
 
 A value only leads somewhere when you have another game with it. One you don't (the only game of a studio on your
 card) is plain text without an arrow, and a game without any facts has nothing to pick: Down scrolls, A plays.
-If the library is still getting ready when you open a card, its connections appear there as soon as they are ready.
+If the library is still getting ready when you open a card, its connections appear there as soon as they are ready. Settings → Look & feel → [Cozy extras](settings.md#cozy-extras) → **Game connections** switches
+them off; the values are then only shown.
 
 ## What the card shows
 

diff --git a/CHANGELOG.md b/CHANGELOG.md
@@ -3,6 +3,12 @@
 All notable changes are listed here. The format follows [Keep a Changelog](https://keepachangelog.com/en/1.1.0/),
 and versions follow [Semantic Versioning](https://semver.org/) (before 1.0, a minor version may change anything).
 
+## [Unreleased]
+
+### Changed
+
+- Documentation: a new device list in the README and [docs/DEVICES.md](docs/DEVICES.md), grouped by chip with what each plays, the README's feature list brings 0.1.4 to 0.1.6, and the manual and screenshots match 0.1.6.
+
 ## [0.1.6] - 2026-10-30
 
 ### Added
